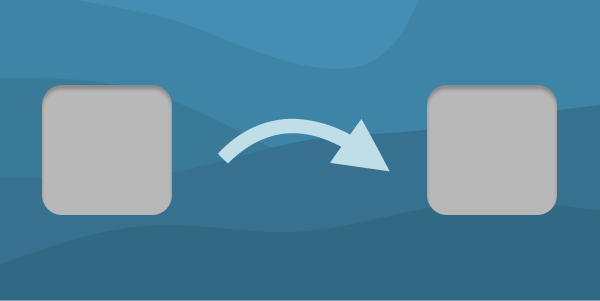
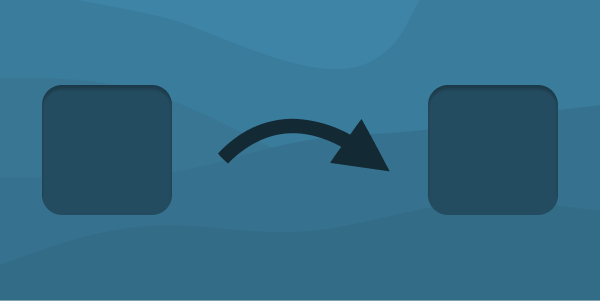
Update background

Changed region(s): [[0.69, 0.2691, 0.93, 0.7176], [0.06, 0.2691, 0.3, 0.7176], [0.36, 0.3887, 0.66, 0.5681]]

diff --git a/forge.config.js b/forge.config.js
@@ -20,8 +20,9 @@ module.exports = {
     {
       config: {
         background: "./assets/dmg-background.png",
+        "background-color": "#132933",
         contents: (opts) => [
-          { path: "/Applications", type: "link", x: loc(427), y: y(85) },
+          { path: "/Applications", type: "link", x: loc(428), y: y(85) },
           { path: opts.appPath, type: "file", x: loc(42), y: y(85) },
         ],
         format: "ULFO",
